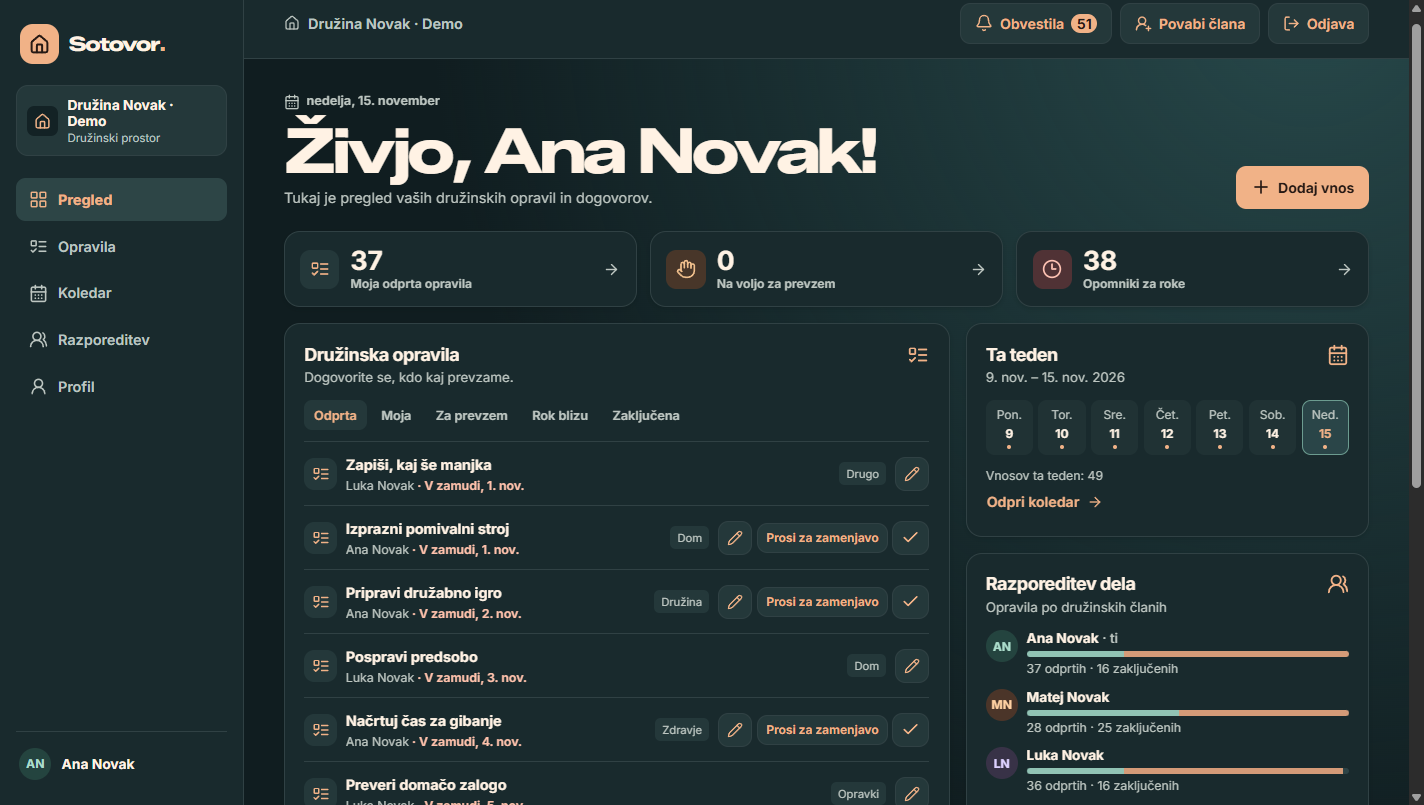
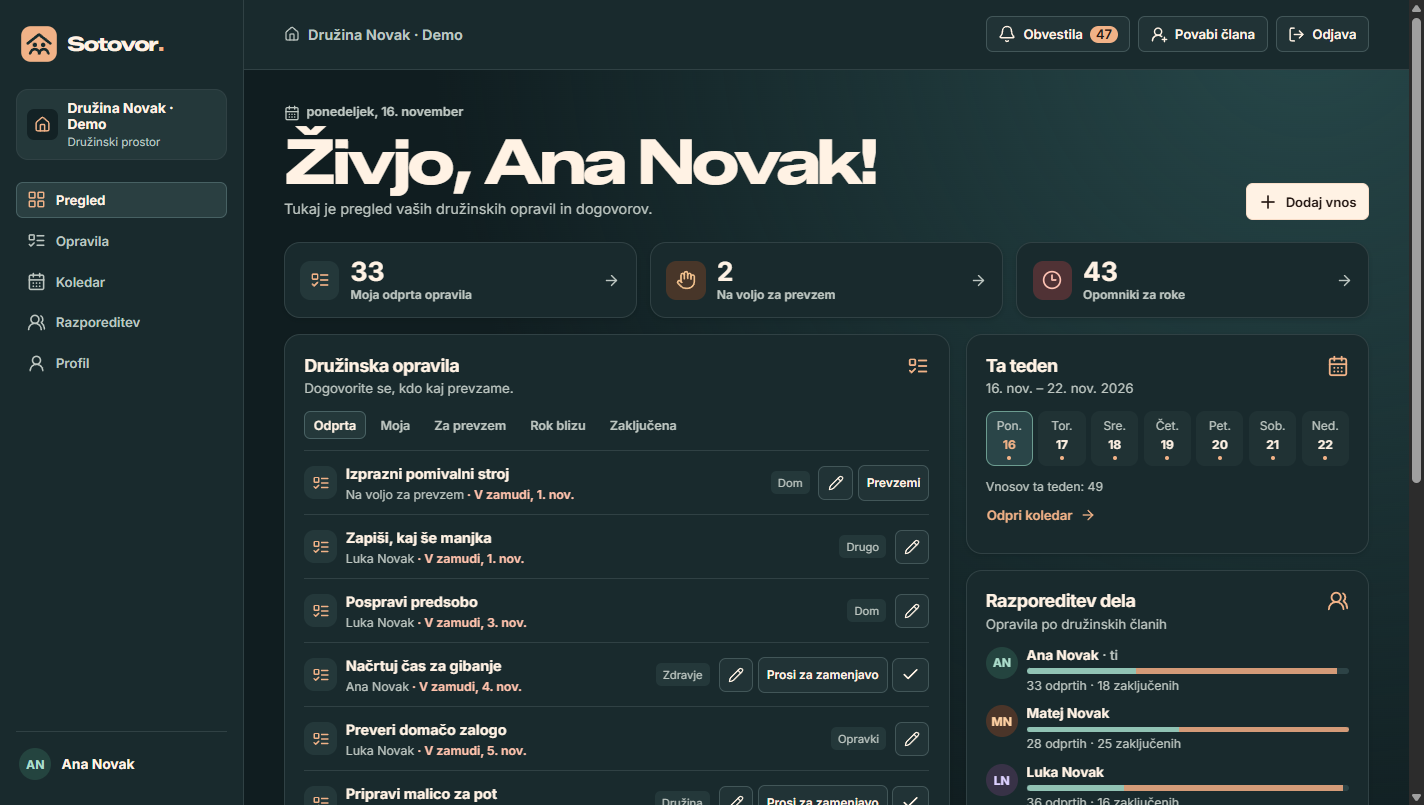
Unify Sotovor branding and refine workspace controls

diff --git a/frontend/src/styles.css b/frontend/src/styles.css
@@ -30,18 +30,24 @@ button { color: inherit; }
 h2 { font-size: 1.12rem; letter-spacing: -.025em; }
 .muted, .panel-heading p, .page-heading p { color: var(--muted); }
 .brand { display: inline-flex; align-items: center; font-family: var(--display-font); font-size: 1.25rem; font-weight: 800; letter-spacing: -.05em; color: var(--ink); }
-.brand-icon { width: 2.45rem; height: 2.45rem; display: grid; place-items: center; margin-right: .6rem; border-radius: .8rem; color: var(--on-accent); background: var(--accent); }
+.brand-icon { width: 2.4rem; height: 2.4rem; flex-shrink: 0; margin-right: .55rem; }
 .brand-dot { color: var(--accent); }
 .brand-button { border: 0; background: transparent; padding: 0; align-self: start; }
 .primary, .soft-button, .icon-button, .text-button {
   display: inline-flex; justify-content: center; align-items: center; gap: .45rem;
-  border: 1px solid transparent; border-radius: .65rem; padding: .65rem .85rem;
-  font-size: .88rem; font-weight: 650;
+  border: 1px solid transparent; border-radius: .43rem; padding: .45rem .72rem;
+  min-height: 2.25rem; font-size: .82rem; font-weight: 600;
+  transition: color .15s ease, background-color .15s ease, border-color .15s ease, box-shadow .15s ease;
 }
-.primary { background: var(--accent); color: var(--on-accent); min-height: 2.65rem; }
-.primary:hover { background: #ffd1b0; }
-.soft-button, .icon-button { color: var(--green); border-color: var(--line); background: var(--soft); }
-.soft-button:hover, .icon-button:hover { background: #31484a; }
+.primary { background: var(--ink); color: var(--on-accent); border-color: #f9dec9; }
+.primary:hover { background: #ffe1cd; border-color: var(--accent); }
+.primary:active { background: #f1b287; }
+.soft-button, .icon-button { color: var(--ink); border-color: #425658; background: #213336; }
+.soft-button:hover, .icon-button:hover { background: #2d4446; border-color: #698284; }
+.soft-button:active, .icon-button:active { background: #17292b; }
+.primary:focus-visible, .soft-button:focus-visible, .icon-button:focus-visible,
+.sidebar nav button:focus-visible { outline: 2px solid var(--accent); outline-offset: 2px; }
+.primary:disabled, .soft-button:disabled, .icon-button:disabled { box-shadow: none; }
 .icon-button { min-width: 2.15rem; min-height: 2.15rem; padding: .35rem; }
 .text-button { color: var(--green); background: transparent; padding: .35rem 0; }
 .text-button:hover { text-decoration: underline; }
@@ -59,9 +65,10 @@ input::placeholder { color: #9baaa5; }
 .household strong, .sidebar-profile strong { display: block; font-size: .86rem; overflow-wrap: anywhere; }
 .household small { display: block; font-size: .72rem; color: var(--muted); margin-top: .15rem; }
 .sidebar nav { display: grid; gap: .25rem; }
-.sidebar nav button { display: flex; align-items: center; text-align: left; gap: .65rem; background: transparent; border: 1px solid transparent; border-radius: .6rem; padding: .68rem .72rem; font-size: .9rem; font-weight: 600; color: var(--muted); }
-.sidebar nav button:hover { background: var(--soft); }
-.sidebar nav button[aria-current] { background: #2d4546; color: var(--green); font-weight: 750; }
+.sidebar nav button { display: flex; align-items: center; text-align: left; gap: .62rem; background: transparent; border: 1px solid transparent; border-radius: .43rem; min-height: 2.3rem; padding: .4rem .62rem; font-size: .83rem; font-weight: 580; color: var(--muted); transition: background-color .15s ease, color .15s ease; }
+.sidebar nav button:hover { background: var(--soft); color: var(--ink); }
+.sidebar nav button[aria-current] { background: #2a3f41; border-color: #476163; color: var(--ink); font-weight: 650; }
+.sidebar nav button[aria-current] svg { color: var(--accent); }
 .sidebar-profile { margin-top: auto; display: flex; align-items: center; gap: .65rem; border-top: 1px solid var(--line); padding: 1rem .2rem 0; }
 .avatar { width: 2rem; height: 2rem; flex-shrink: 0; display: grid; place-items: center; border-radius: 50%; font-weight: 750; font-size: .75rem; color: #abddcb; background: #24443f; }
 .tone-1 { color: #ffd1a3; background: #4b3529; }
@@ -102,8 +109,9 @@ input::placeholder { color: #9baaa5; }
 .panel-heading > svg { color: var(--green); flex-shrink: 0; }
 .panel-heading p { margin-top: .3rem; font-size: .83rem; }
 .filters { display: flex; gap: .3rem; flex-wrap: wrap; border-bottom: 1px solid var(--line); padding-bottom: .7rem; }
-.filters button { padding: .4rem .55rem; color: var(--muted); background: transparent; border: 1px solid transparent; border-radius: .5rem; font-size: .79rem; font-weight: 650; }
-.filters button:hover, .filters button[aria-pressed="true"] { background: var(--soft); color: var(--green); }
+.filters button { padding: .33rem .54rem; color: var(--muted); background: transparent; border: 1px solid transparent; border-radius: .4rem; font-size: .79rem; font-weight: 600; }
+.filters button:hover, .filters button[aria-pressed="true"] { background: var(--soft); color: var(--ink); }
+.filters button[aria-pressed="true"] { border-color: #496264; }
 .task-row { display: grid; align-items: center; grid-template-columns: auto minmax(0, 1fr) auto auto; gap: .55rem; padding: .75rem 0; border-bottom: 1px solid var(--line); }
 .task-row:last-child { border-bottom: 0; }
 .task-icon { width: 2.05rem; height: 2.05rem; }
@@ -182,7 +190,7 @@ dialog .fields { display: grid; grid-template-columns: 1fr 1fr; gap: .65rem; }
 @media (prefers-reduced-motion: reduce) { .workspace .content { animation: none; } }
 .task-pagination { display: flex; justify-content: end; align-items: center; gap: .55rem; margin-top: .6rem; color: var(--muted); font-size: .79rem; }
 .calendar-view { display: flex; gap: .35rem; margin-bottom: .75rem; }
-.calendar-view [aria-pressed=true] { background: var(--accent); color: var(--on-accent); }
+.calendar-view [aria-pressed=true] { background: var(--ink); color: var(--on-accent); border-color: #f9dec9; }
 .month-calendar .panel-heading h2, .month-agenda h2 { text-transform: capitalize; }
 .month-weekdays, .month-grid { display: grid; grid-template-columns: repeat(7, minmax(0, 1fr)); gap: .3rem; }
 .month-weekdays { color: var(--muted); text-align: center; font-size: .78rem; padding-bottom: .35rem; }
@@ -206,6 +214,9 @@ dialog .fields { display: grid; grid-template-columns: 1fr 1fr; gap: .65rem; }
   .month-day-number { flex-direction: column; gap: .1rem; }
 }
 @media (prefers-reduced-motion: reduce) { .month-day { transition: none; } .month-agenda { animation: none; } }
+@media (prefers-reduced-motion: reduce) {
+  .primary, .soft-button, .icon-button, .text-button, .sidebar nav button { transition: none; }
+}
 @media (max-width: 58rem) { .profile-grid { grid-template-columns: minmax(0, 1fr); } }
 dialog .invite-label { margin-bottom: .8rem; }
 @media (max-width: 68rem) {

diff --git a/frontend/src/Landing.jsx b/frontend/src/Landing.jsx
@@ -1,8 +1,9 @@
 import { useEffect, useRef, useState } from 'react';
 import {
   ArrowDown, ArrowRight, ArrowUpRight, Bell, CalendarDays, Check, ClipboardList,
-  House, Mic, Repeat2, UsersRound, X,
+  Mic, Repeat2, UsersRound, X,
 } from 'lucide-react';
+import { BrandMark } from './Account.jsx';
 import '@fontsource-variable/zalando-sans-expanded/wght.css';
 import '@fontsource-variable/inter/wght.css';
 import '@fontsource/ibm-plex-mono/latin-500.css';
@@ -25,16 +26,16 @@ const appPreviews = [
   { title: 'Android aplikacija', status: 'Koncept', image: 'mobile-concept.jpg', width: 1536, height: 1024,
     alt: 'Telefon s konceptom mobilnih družinskih opravil in datumskim trakom',
     text: 'Dnevni pregled na poti, s hitrim dostopom do tvojih opravil in možnosti za prevzem.' },
-  { title: 'Namizna aplikacija', status: 'Koncept', image: 'desktop-concept.jpg', width: 1536, height: 1024,
-    alt: 'Namizni monitor s konceptom aplikacije Sotovor in mesečnim koledarjem',
-    text: 'Samostojno okno za načrtovanje tedna ali meseca, ko za računalnikom usklajuješ več obveznosti hkrati.' },
+  { title: 'Namizna aplikacija', status: 'Deluje na Windows', image: 'desktop-dashboard.png', width: 1280, height: 850,
+    alt: 'Mesečni koledar demo družine Novak v namizni aplikaciji Sotovor',
+    text: 'Samostojno okno za Windows s skupnim koledarjem in opravili. Prijavo potrdiš v brskalniku.' },
 ];
 
 function ProductShowcase() {
   return <section id="naprave" className="landing-section product-showcase" aria-labelledby="devices-title">
     <div className="product-heading">
       <h2 id="devices-title">En družinski prostor, več načinov uporabe.</h2>
-      <p>Spletna različica že deluje. Za telefon, namizje in domači zaslon si oglej, kako bi lahko Sotovor uporabljali v vsakdanjem življenju.</p>
+      <p>Spletna in namizna različica že delujeta. Mobilna aplikacija in domači zaslon sta prikazana kot koncepta.</p>
     </div>
     <figure className="showcase-feature">
       <img src="/showcase/kitchen-display.jpg" width="1536" height="1024" loading="lazy" decoding="async"
@@ -61,8 +62,8 @@ function ProductShowcase() {
   </section>;
 }
 
-function Mark({ size = 18 }) {
-  return <span className="landing-mark" aria-hidden="true"><House size={size} strokeWidth={2.4} /></span>;
+function Mark() {
+  return <BrandMark className="landing-mark" />;
 }
 
 export function AuthDialog({ mode, legacy, busy, error, onAuth, onMode }) {

diff --git a/frontend/src/landing.css b/frontend/src/landing.css
@@ -36,7 +36,7 @@ html:has(.landing:not(.motion-paused)) { scroll-behavior: smooth; }
   font-family: var(--display-font); font-size: .9rem; font-weight: 800; letter-spacing: -.04em;
 }
 .landing-header .landing-brand { border-right: 1px solid var(--landing-line); }
-.landing-mark { width: 1.85rem; height: 1.85rem; display: grid; place-items: center; color: #171b10; background: var(--accent); border-radius: .3rem; flex-shrink: 0; }
+.landing-mark { width: 1.95rem; height: 1.95rem; flex-shrink: 0; }
 .landing-header nav { display: flex; align-items: stretch; }
 .landing-header nav a, .hero-bottom a, .motion-toggle, .landing-footer > a:last-child {
   display: inline-flex; align-items: center; gap: .45rem;
@@ -48,6 +48,7 @@ html:has(.landing:not(.motion-paused)) { scroll-behavior: smooth; }
 .landing .launch-button {
   display: inline-flex; align-items: center; justify-content: center; gap: .75rem;
   padding: .87rem 1.05rem; min-height: 3.1rem; border: 1px solid transparent;
+  border-radius: .43rem;
   font-family: var(--mono-font); font-weight: 500; font-size: .72rem; letter-spacing: .055em; text-transform: uppercase;
   transition: background .2s, color .2s, border-color .2s, transform .2s;
 }
@@ -57,6 +58,7 @@ html:has(.landing:not(.motion-paused)) { scroll-behavior: smooth; }
 .landing .launch-button.outline { background: #17191bd9; border-color: #484a50; color: var(--landing-text); }
 .landing .launch-button.outline:hover { border-color: var(--accent); }
 .landing .header-login { margin-left: auto; background: #233739; color: var(--landing-text); padding-inline: 1.25rem; }
+.landing-header .header-login { border-radius: 0; }
 .landing .header-login:hover { transform: none; background: var(--accent); color: #231914; }
 .landing-hero {
   position: relative; isolation: isolate; display: grid; place-items: center;

diff --git a/frontend/src/Account.jsx b/frontend/src/Account.jsx
@@ -1,8 +1,11 @@
 import { useState } from 'react';
-import { House } from 'lucide-react';
+
+export function BrandMark({ className }) {
+  return <img className={className} src="/sotovor-mark.svg" alt="" width={64} height={64} />;
+}
 
 export function Brand() {
-  return <span className="brand"><span className="brand-icon"><House size={21} strokeWidth={2.3} /></span>Sotovor<span className="brand-dot">.</span></span>;
+  return <span className="brand"><BrandMark className="brand-icon" />Sotovor<span className="brand-dot">.</span></span>;
 }
 
 export function ChooseHousehold({ profile, busy, error, onSubmit, onLogout }) {

diff --git a/frontend/index.html b/frontend/index.html
@@ -4,6 +4,7 @@
     <meta charset="UTF-8" />
     <meta name="viewport" content="width=device-width, initial-scale=1" />
     <meta name="theme-color" content="#101d20" />
+    <link rel="icon" type="image/svg+xml" href="/sotovor-mark.svg" />
     <title>Sotovor · Družinski prostor</title>
   </head>
   <body>
